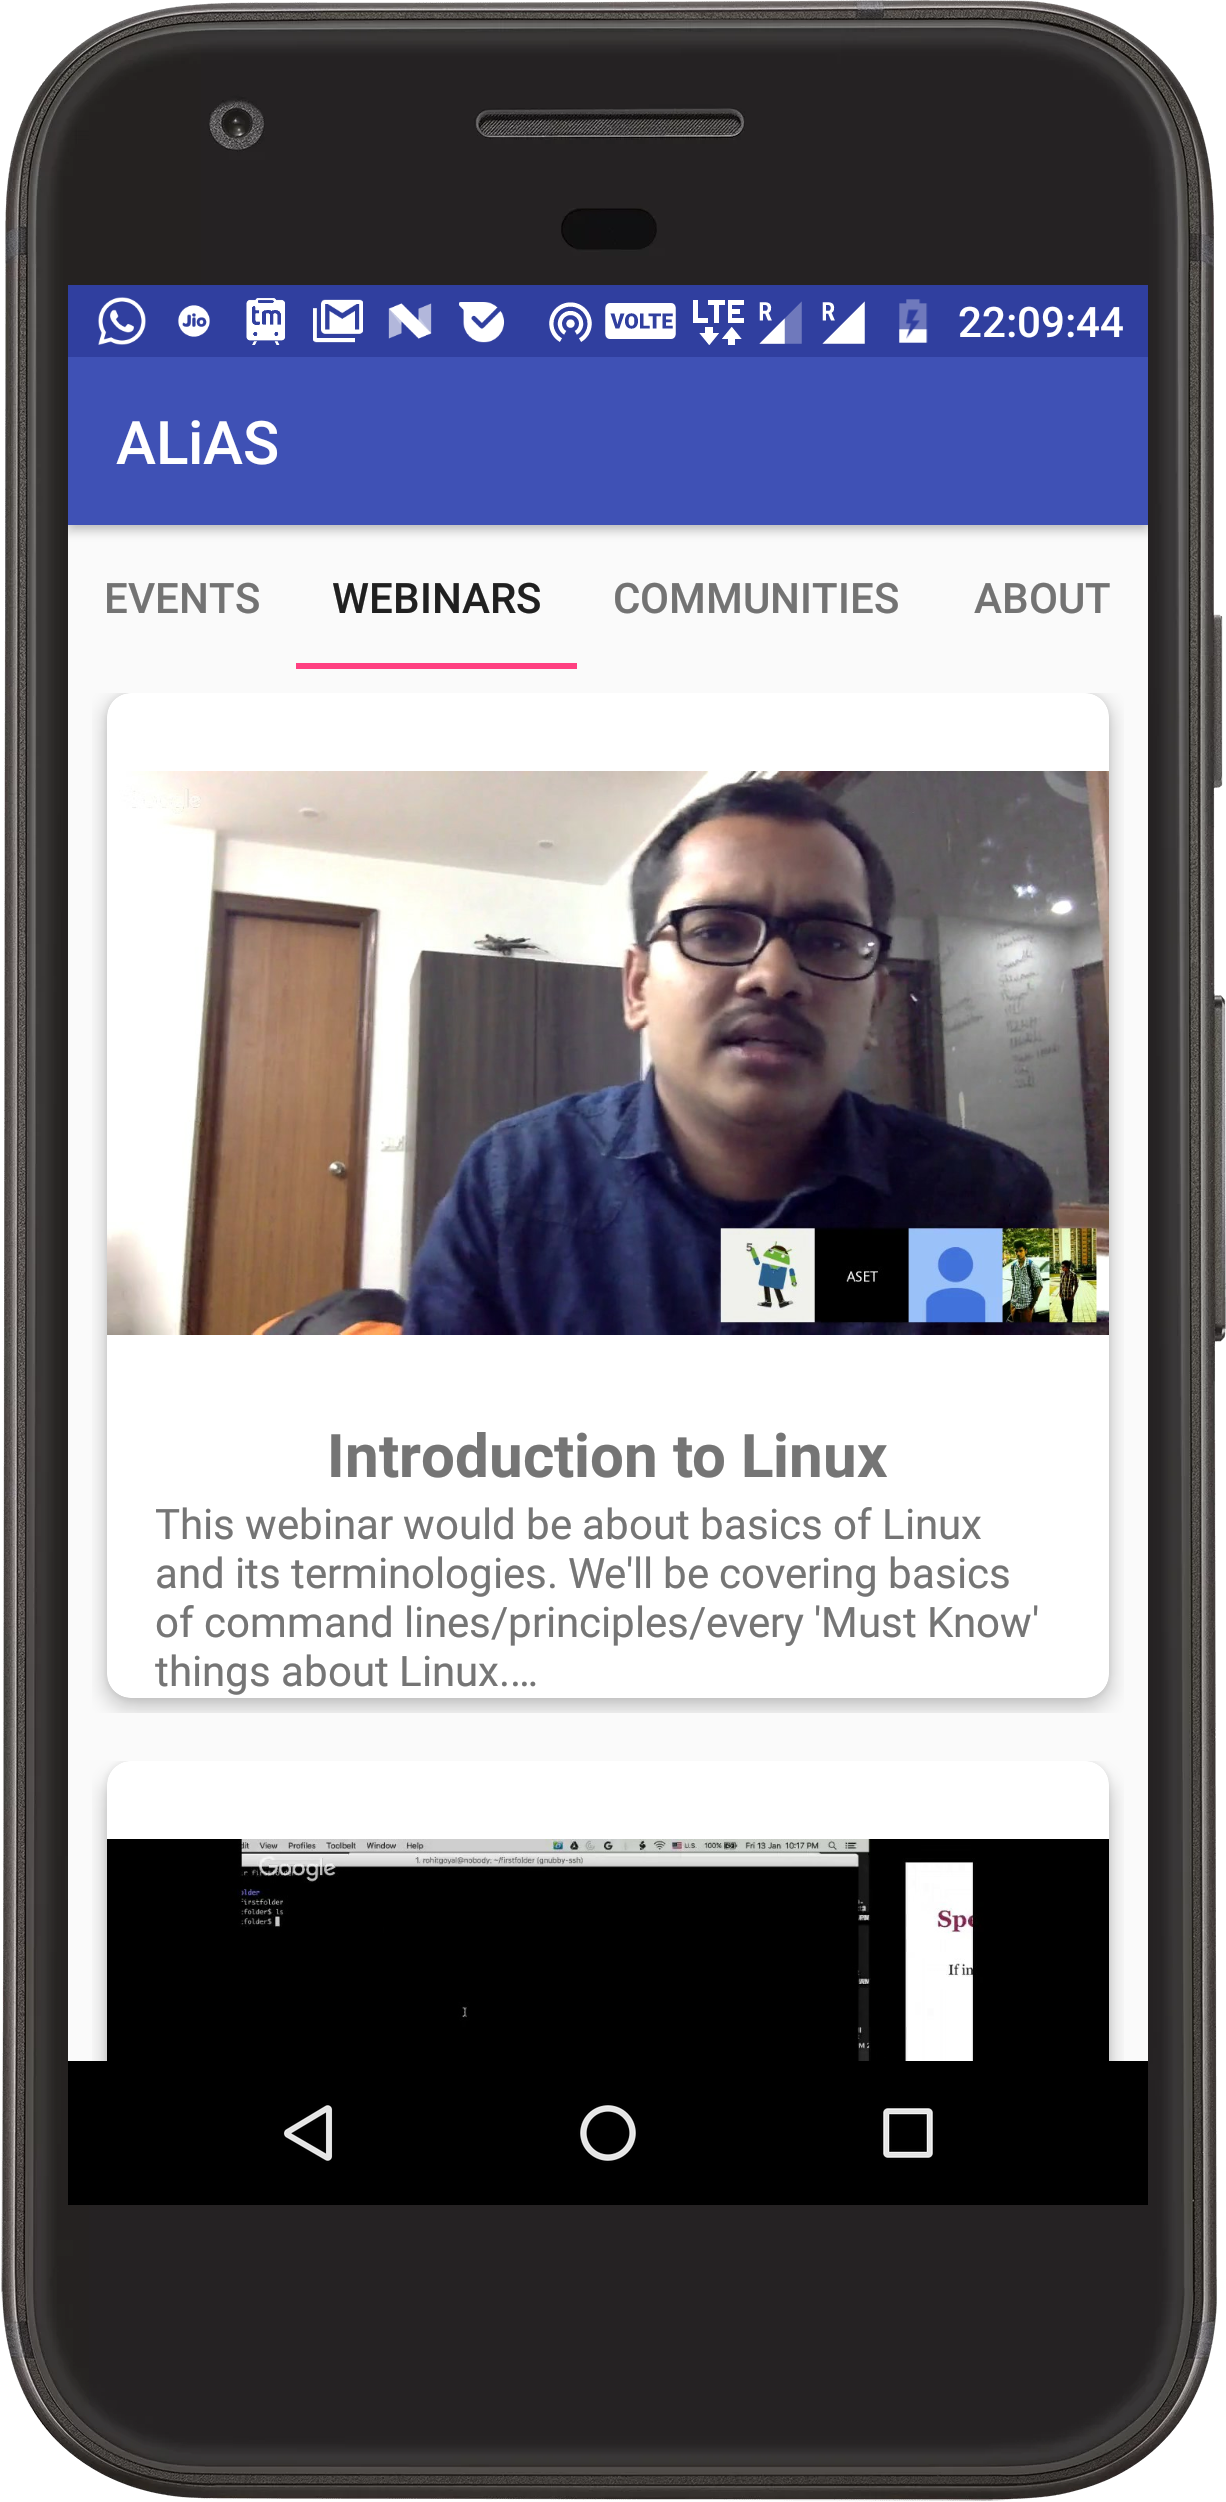
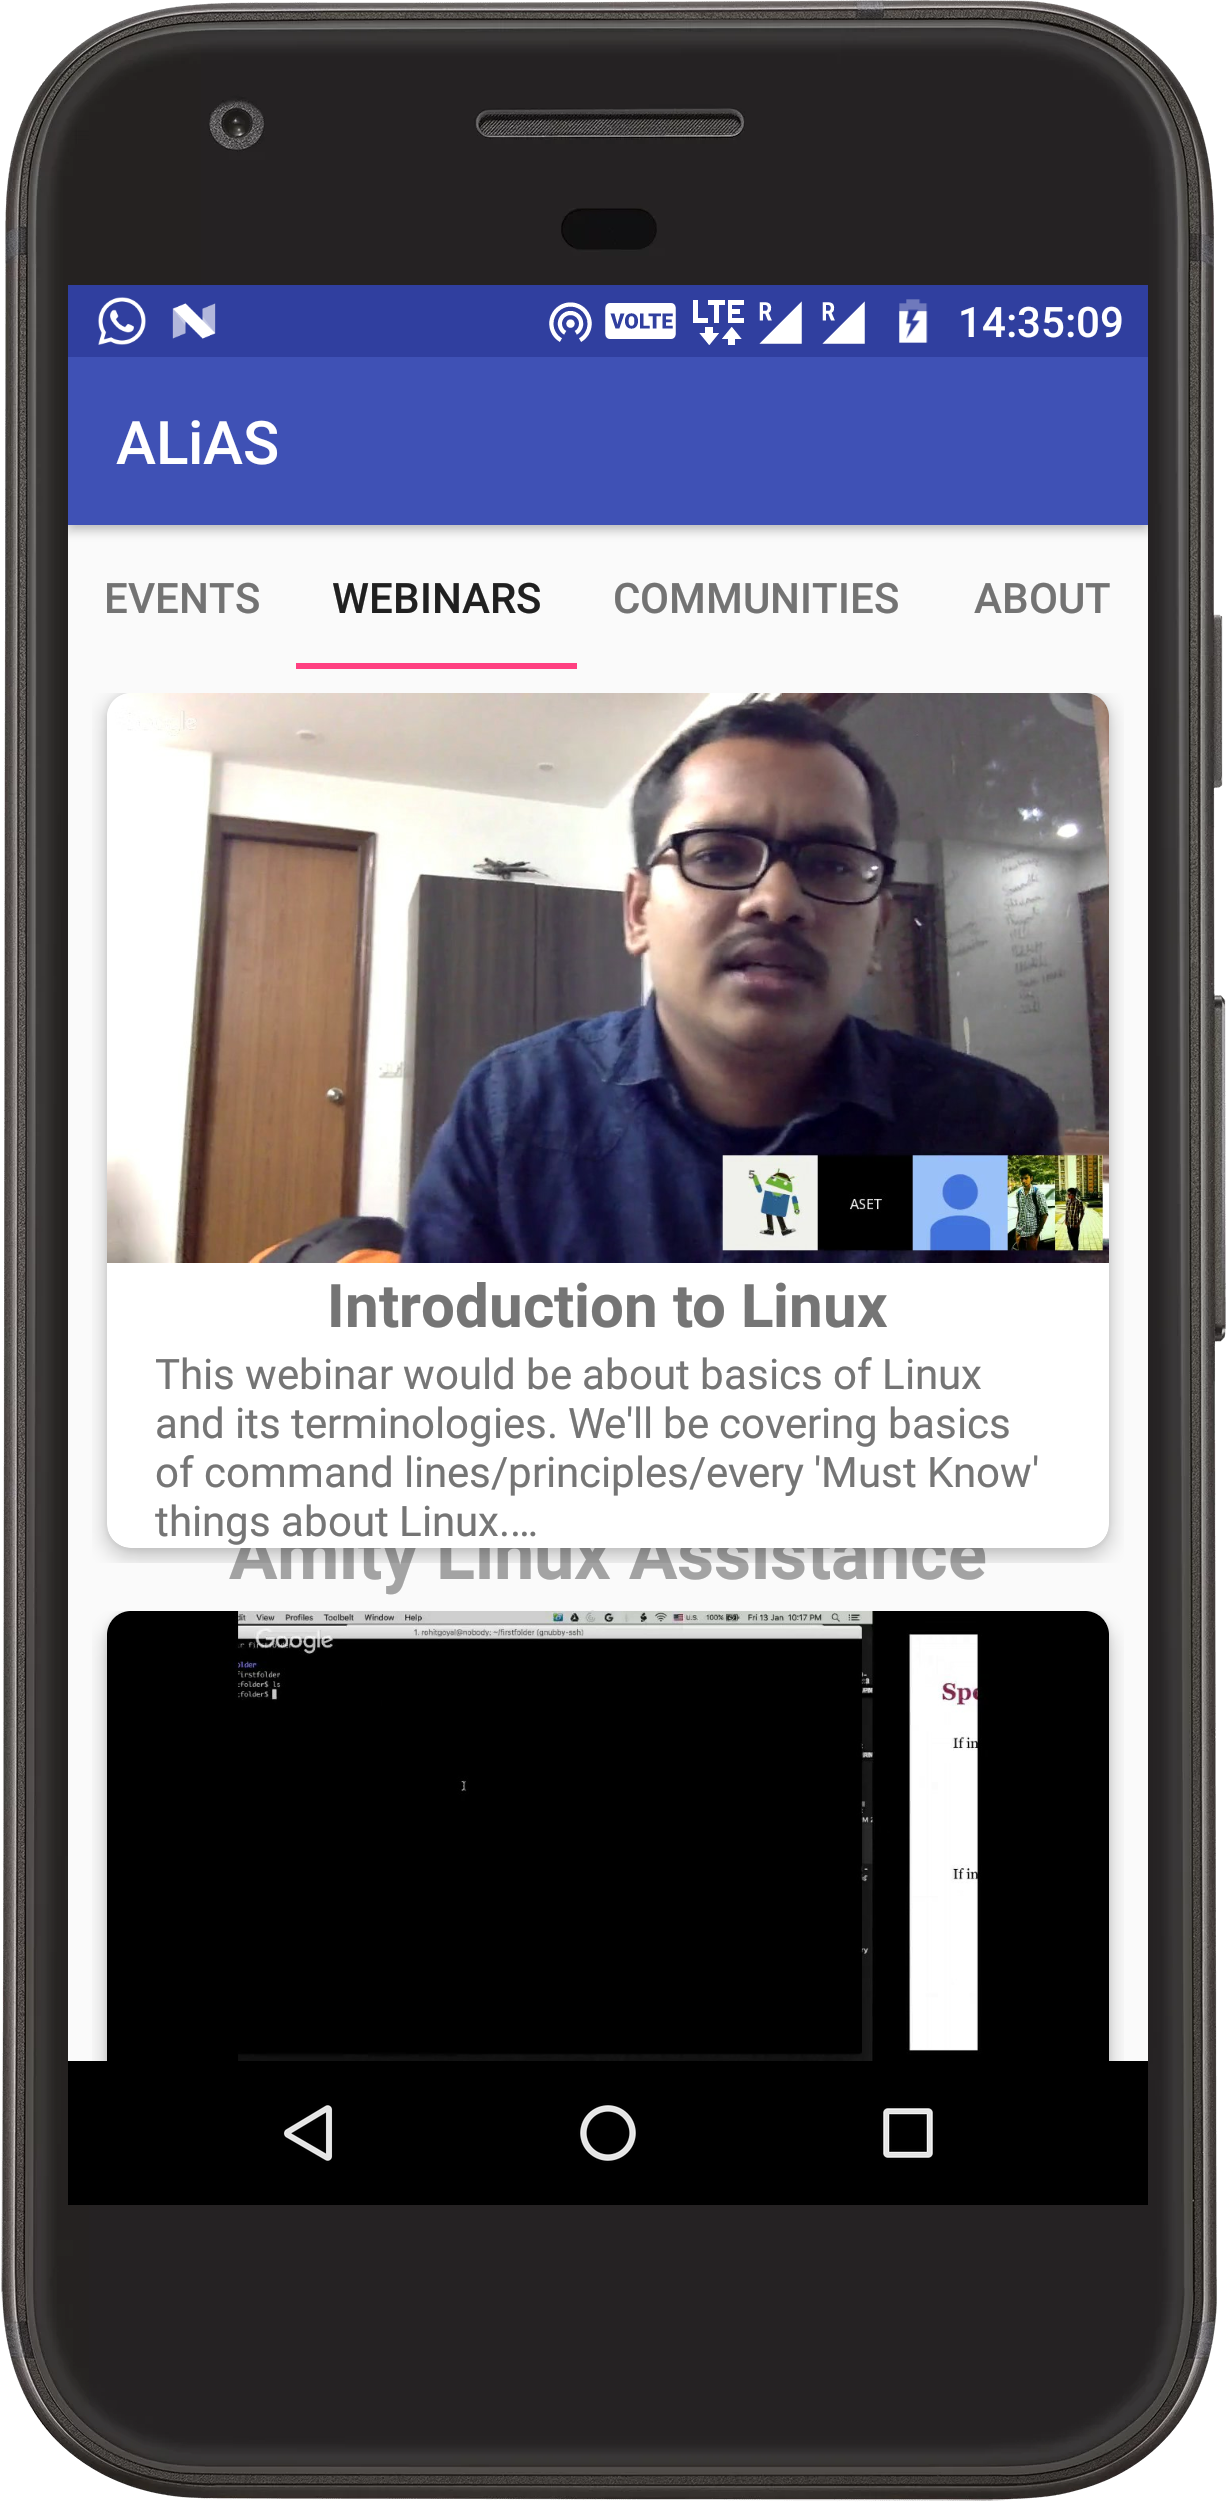
image on webinarFragment covers card width.

diff --git a/src/app/src/main/java/in/asetalias/alias/adapters/WebinarAdapter.java b/src/app/src/main/java/in/asetalias/alias/adapters/WebinarAdapter.java
@@ -2,13 +2,23 @@ package in.asetalias.alias.adapters;
 
 import android.content.Context;
 import android.content.Intent;
+import android.graphics.Bitmap;
+import android.graphics.Canvas;
+import android.graphics.Paint;
+import android.graphics.PorterDuff;
+import android.graphics.PorterDuffXfermode;
+import android.graphics.Rect;
+import android.graphics.RectF;
 import android.net.Uri;
 import android.support.v7.widget.RecyclerView;
 import android.text.Html;
 import android.text.TextUtils;
+import android.util.DisplayMetrics;
+import android.view.Display;
 import android.view.LayoutInflater;
 import android.view.View;
 import android.view.ViewGroup;
+import android.view.WindowManager;
 import android.widget.ImageView;
 import android.widget.TextView;
 
@@ -56,8 +66,8 @@ public class WebinarAdapter extends RecyclerView.Adapter<WebinarAdapter.WebinarV
         //Render image using Picasso library
         if (!TextUtils.isEmpty(webinarItem.getVideoId())) {
             Picasso.with(mContext).load(thumbUrl)
-                    .error(R.drawable.placeholder)
-                    .placeholder(R.drawable.placeholder)
+                    .error(R.drawable.vc_broken_image_placeholder)
+                    .placeholder(R.drawable.vc_image_placeholder)
                     .into(webinarViewHolder.imgWebinar);
         }
 
@@ -74,6 +84,27 @@ public class WebinarAdapter extends RecyclerView.Adapter<WebinarAdapter.WebinarV
         });
     }
 
+    public static Bitmap getRoundedCornerBitmap(Bitmap bitmap) {
+        Bitmap output = Bitmap.createBitmap(bitmap.getWidth(),
+                bitmap.getHeight(), Bitmap.Config.ARGB_8888);
+        Canvas canvas = new Canvas(output);
+
+        final int color = 0xff424242;
+        final Paint paint = new Paint();
+        final Rect rect = new Rect(0, 0, bitmap.getWidth(), bitmap.getHeight());
+        final RectF rectF = new RectF(rect);
+        final float roundPx = 12;
+
+        paint.setAntiAlias(true);
+        canvas.drawARGB(0, 0, 0, 0);
+        paint.setColor(color);
+        canvas.drawRoundRect(rectF, roundPx, roundPx, paint);
+
+        paint.setXfermode(new PorterDuffXfermode(PorterDuff.Mode.SRC_IN));
+        canvas.drawBitmap(bitmap, rect, rect, paint);
+
+        return output;
+    }
 
     @Override
     public int getItemCount() {

diff --git a/src/app/src/main/java/in/asetalias/alias/adapters/EventAdapter.java b/src/app/src/main/java/in/asetalias/alias/adapters/EventAdapter.java
@@ -47,8 +47,8 @@ public class EventAdapter extends RecyclerView.Adapter<EventAdapter.EventViewHol
         //Render image using Picasso library
         if (!TextUtils.isEmpty(eventItem.getPoster())) {
             Picasso.with(mContext).load(eventItem.getPoster())
-                    .error(R.drawable.placeholder)
-                    .placeholder(R.drawable.placeholder)
+                    .error(R.drawable.vc_broken_image_placeholder)
+                    .placeholder(R.drawable.vc_image_placeholder)
                     .into(eventViewHolder.imgPosterEvent);
         }
 

diff --git a/src/app/src/main/java/in/asetalias/alias/adapters/CommunityAdapter.java b/src/app/src/main/java/in/asetalias/alias/adapters/CommunityAdapter.java
@@ -53,8 +53,8 @@ public class CommunityAdapter extends RecyclerView.Adapter<CommunityAdapter.Comm
         //Render image using Picasso library
         if (!TextUtils.isEmpty(communityItem.getLogo())) {
             Picasso.with(mContext).load(logo)
-                    .error(R.drawable.placeholder)
-                    .placeholder(R.drawable.placeholder)
+                    .error(R.drawable.vc_broken_image_placeholder)
+                    .placeholder(R.drawable.vc_image_placeholder)
                     .into(communityViewHolder.imgCommunity);
         }
 
